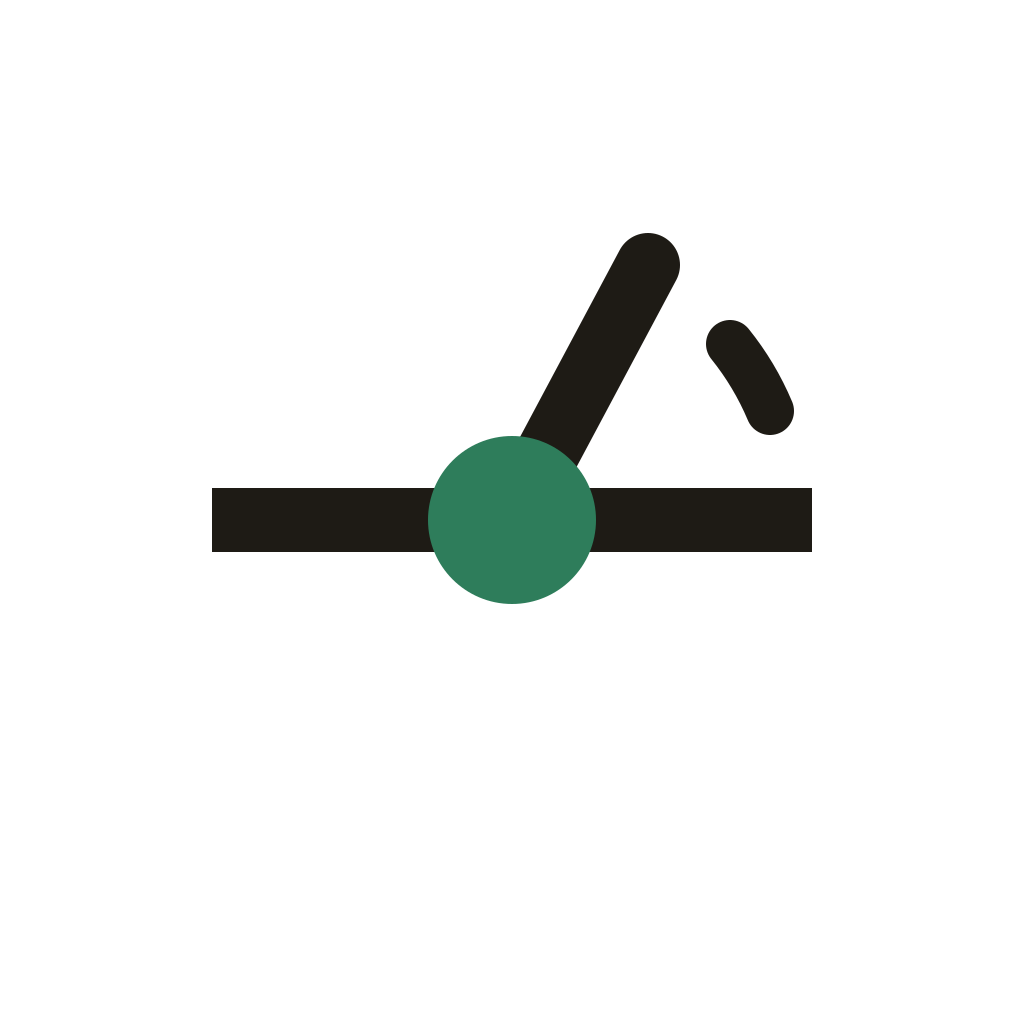
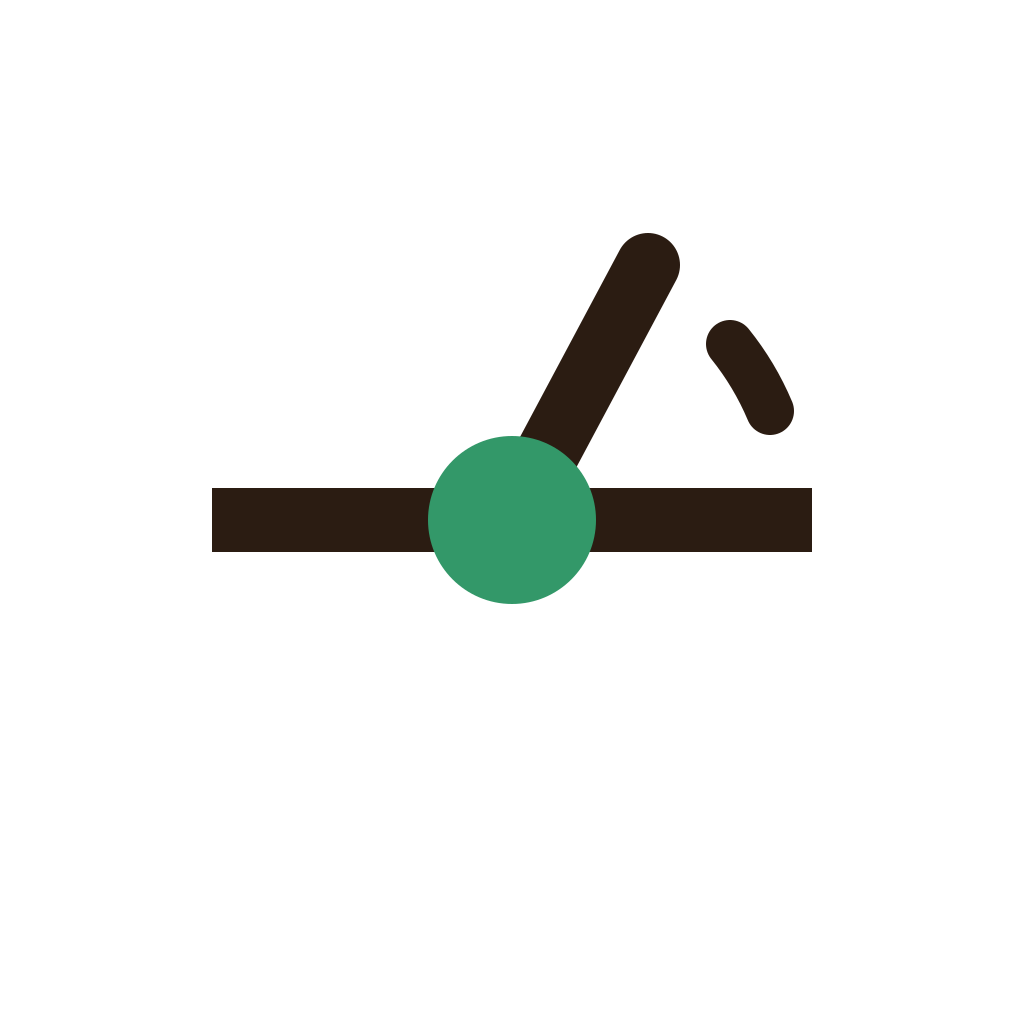
Cadence Arcs CHECKPOINT: launch assets + change log
Committed at the coordinator's request so the remaining work can be split
across parallel agents. The gate is clean at this commit: typecheck, lint
(0 errors), jest 1346/1346, deno 401/401.

What this commit contains:
- app.json's splash and Android adaptive-icon backgrounds moved off the
  Calm blue (#E9EFFA / #0F1324) onto the espresso base (#F7F1EB /
  #17120E). Without this the app launches blue and cuts to espresso — a
  visible defect the screen work would otherwise have shipped with.
- assets/source/*.svg re-synced to the current tokens and the PNGs
  regenerated via `npm run assets`. Worth flagging: that art had NEVER
  been re-synced past the 2026-08-02 Calm swap — it was still carrying the
  pre-Calm warm-neutral hexes while docs/architecture.md claimed it
  tracked tokens. It now genuinely matches constants/theme.ts.
- scripts/generate-app-assets.js's two hand-mirrored background constants,
  which are the documented manual-sync point for exactly this.
- docs/change_log.md entry for the whole redesign.

NOT done, deliberately not started rather than half-done: docs/status.md
and docs/architecture.md still describe the Calm design language.

Claude-Session: https://claude.ai/code/session_01XmgMQjTiPSeE9f4GCND8Gr

Changed region(s): [[0.4062, 0.4062, 0.5938, 0.5938]]

diff --git a/scripts/generate-app-assets.js b/scripts/generate-app-assets.js
@@ -5,7 +5,7 @@
  * `app.json` points at. Run with `npm run assets` after editing any source SVG — the PNGs in
  * `assets/images/` are build outputs, not hand-edited files.
  *
- * Every color here comes from the Gait Plate tokens in `constants/theme.ts`; the SVGs hold the
+ * Every color here comes from the Cadence Arcs tokens in `constants/theme.ts`; the SVGs hold the
  * geometry, this file holds the per-target raster rules (size, alpha, background).
  *
  * The one rule that is not obvious: `icon.png` MUST NOT have an alpha channel. iOS applies its
@@ -25,8 +25,8 @@ const outDir = path.join(root, "assets", "images");
 // Manual mirror of constants/theme.ts -> Colors.light.background / Colors.dark.background.
 // A .js build script cannot import the TS token, so these must be re-synced by hand on any
 // future palette change.
-const LIGHT_BACKGROUND = "#E9EFFA";
-const DARK_BACKGROUND = "#0F1324";
+const LIGHT_BACKGROUND = "#F7F1EB";
+const DARK_BACKGROUND = "#17120E";
 
 // Each source SVG carries two layers: an opaque `#field` rect and the `#mark` annotation group.
 // `keepField: false` drops the rect before rasterizing, leaving a transparent surround — that is

diff --git a/docs/change_log.md b/docs/change_log.md
@@ -5,6 +5,65 @@ heading followed by a bulleted list of what changed (and why, where it's not obv
 make a behavior-changing commit, add a bullet under today's date — create a new heading at the
 **top** of the file if there isn't one yet for today. Don't rewrite or delete past entries.
 
+## 2026-09-01 (Cadence Arcs — the full visual redesign)
+
+- **A new design system replaces Calm, on the branch `redesign/cadence-arcs-2026-09-01`.** Warm
+  espresso/clay (`#17120E` ink, clay accent) instead of blue/violet, Bricolage Grotesque / Manrope
+  / Space Mono instead of Archivo / Inter / IBM Plex Mono, and one signature motif — concentric
+  arcs radiating from a point, like ripples from a footstrike — carried by every screen. What did
+  NOT change is as deliberate as what did: `Radius`, `Spacing`, `FontSize`, `Tracking`,
+  `LineHeight`, `Elevation`, `ControlHeight`, `ContentWidth`, `TabBar`, `HitTarget`,
+  `CheckboxSize`, `Opacity` and `Motion` are byte-identical. The geometry and pacing were not the
+  problem, and re-cutting them would have been churn dressed as a redesign.
+- **Every colour was re-solved, not eyeballed.** Same method the file has always used — hold hue
+  and saturation, move only lightness, solve each role to a common per-role target — and all 229
+  token/contrast proofs in `constants/__tests__/theme-contrast.test.ts` pass on the new palette,
+  including the two guards that must FAIL by design (`hairline` staying under the control-boundary
+  floor, and `text.secondary` genuinely falling short on white-tinted glass over the wash).
+- **The score ramp rotated off the accent, and that cost something worth recording.** An orange
+  accent puts the old coral "Needs work" band 8° from the primary action colour, so the ramp moved
+  to low 352° / mid 52° / strong 152° / good 195°. The tightest hue pair anywhere in the palette
+  is now 30°, down from the Calm palette's 38°. That is the honest price of a clay accent; it is
+  stated at the `Score` token rather than left in a diff.
+- **The accent ships darker than the design's literal clay.** White on `#E8703B` is 3.08:1 — a CTA
+  label cannot live there — so the accent is `#C05416` and the literal clay ships as
+  `Arc.dark.ornament`, the decorative motif colour, where nothing is text.
+- **`Arc` is a new token with two roles**, `ornament` and `track`, each with its own proof
+  obligation: the ornament clears 3:1 against every surface and wash stop (a stronger floor than a
+  decorative mark owes, because the same token draws the ring a score sits in), and the track is
+  proven to stay UNDER 3:1 so it can never out-shout the score drawn over it.
+- **THE RESULT READOUT IS RINGS NOW, and the honesty contract survived the move intact.** The
+  overall score is one large arc ring with the numeral inside it; each pillar carries its own.
+  This reads the same `PaceResult` shape, converts `score/100` to a sweep at the point of render,
+  and changes nothing about the API contract. A `null` pillar still mounts no fill and now draws a
+  DASHED, empty ring — the direct successor of the old bar's dashed empty track (M1) — and
+  `<ArcRing>` enforces that independently of the readout, so there are two barriers between `null`
+  and a visible "0" where there used to be one. The overall numeral steps `hero` -> `display`: the
+  ring carries the scale now, and a 96pt numeral inside a 208pt circle leaves no ring to read.
+- **`AnimatedPillarBarFill` is retired.** A ring has no width to animate, so motion-consult item
+  1's "scaleX, never width" has no subject. Its successor invariant — the ring's layout box is
+  fixed at mount and only the stroke offset moves — is proven in the new ring tests. A static ring
+  now mounts no Reanimated node at all, which makes "nothing is scheduled on a re-open"
+  structural rather than merely intended.
+- **The corner ornament lives in `<ScreenGradient>`, not on twelve screens.** Opt-out, not opt-in.
+  Twelve pasted copies of a decoration is twelve chances for its radius, corner or colour to
+  drift, and identical-everywhere is the only thing that makes a motif read as a system. Both
+  result screens opt out: their heroes bleed into the corner the ornament would occupy.
+- **Wait states carry the motif and keep their honesty rule.** `<ArcLoader>` (indeterminate — no
+  arc that fills toward a completion, dead still under reduced motion) replaces the full-screen
+  spinners on result, history and compare, and rings the runner mark on Analyzing. Extracting's
+  horizontal progress bar became a genuinely DETERMINATE ring driven by the real frame count,
+  while its "preparing" state — where the total is not yet known — gets the indeterminate loader.
+  In-button spinners were left alone; a three-ring set inside a 56pt pill is the wrong shape.
+- **Sign-in is the one deliberate exception.** A new `<ArcBurst>` draws five oversized
+  counter-rotating arcs behind the wordmark, wider than the device so they run off every edge.
+  Kept as a separate component from `<ArcLoader>` on purpose: rotating rings mean "wait" there and
+  "this is the brand" here, and a shared primitive would be a shared meaning.
+- **A real bug was found and fixed while wiring the extraction ring.** A static `<ArcRing>` seeded
+  its swept value once at mount, so a ring whose fraction changes after mount would have sat
+  frozen while the count beside it climbed — a silent failure that looks like a stalled
+  extraction, not a broken component. Locked by a test.
+
 ## 2026-08-19 (#62 M7 accessibility RE-sweep — the redesigned surface against the same floor)
 
 - **The result screens had no headings at all, and now do.** `app/result/[id].tsx` and
